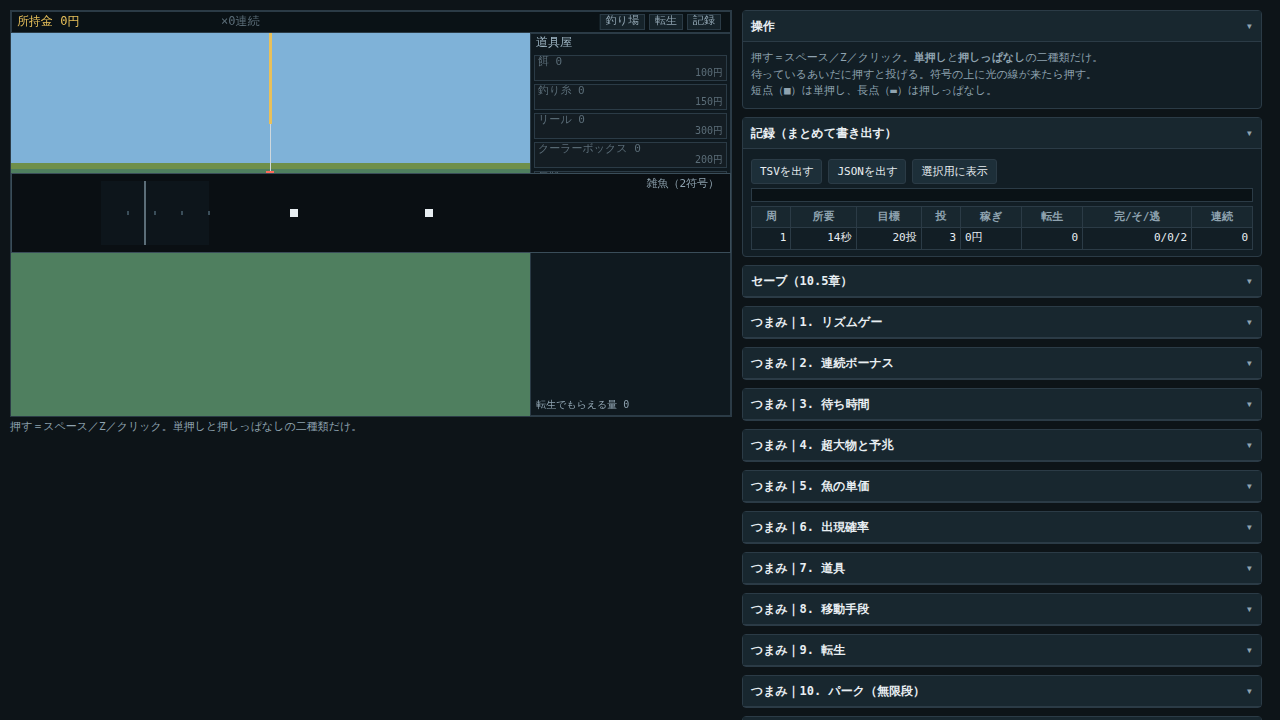
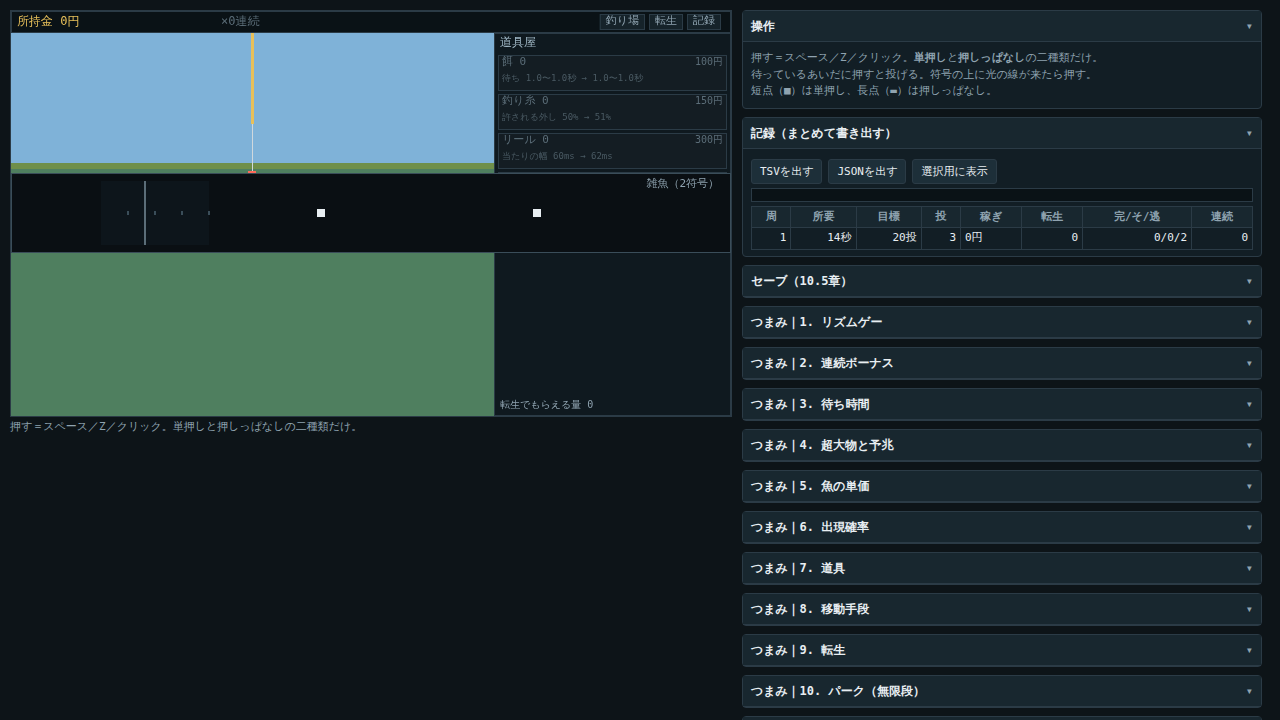
spec 第28版＋実装：道具屋にも効果と稼ぎの倍率。入れ食いになるを実装
- 9章 画面A：道具の一行に「いま → 買った後」を出す（決）。稼ぎが動くものには倍率。
  腕は勘定に入れない（人によって違うので、入れると道具どうしを比べられなくなる）。
  リールと釣り糸に倍率が付かないことが、そのまま「そういう道具だ」を伝える
- 10章10：開く型を11に。「入れ食いになる」4000〔仮〕を復活させ、
  終盤にだけ効く理由（床に当たるまで変わらない）を実測つきで但し書きにした
- 実装：rateEst()／rateIfBuy()／toolEff()、開く型11（opn11c／opn11v）
- friction-check.mjs に三件追加（道具の全行／倍率の付き方／入れ食いが効き始める段数）。
  19件すべて○

Claude-Session: https://claude.ai/code/session_01FWfDWPPf3eFfUKrHUiB2gN

Changed region(s): [[0.375, 0.0306, 0.5625, 0.2444], [0.375, 0.3361, 0.5, 0.5806], [0.1875, 0.0611, 0.2188, 0.1833]]

diff --git a/spec.md b/spec.md
@@ -1,6 +1,6 @@
 # 釣りインクリメンタル（仮題）仕様書
 
-版：第27版
+版：第28版
 日付：2026-08-20
 状態：第三段（数値合わせ）に渡せる。値の逆算が残っている（12章）
 
@@ -1279,6 +1279,14 @@ C 釣り場選び ⇄ A 釣りの画面 → B 転生 → C
   竿はパーク「自動の竿が解放される」を取ってから加わる
 - **自動購入の入切は、道具屋の見出しに置く（決）。**取っていないあいだは出さない。
   **切ったら手で買う場所がそこなので、同じ場所に置く**（10章10「入切できる」）
+- **道具の一行にも「買うと何がどれだけ変わるか」を出す（決）。**
+  「待ち 1.9〜7.5秒 → 1.8〜7.3秒」「売値 ×1.10 → ×1.16」の形。
+  **秒あたりの稼ぎが動くものには「稼ぎ ×1.05」を添える。**
+  移動手段は「○○ が開く」<br>
+  **稼ぎの目安に腕は入れない（決）。**人によって違うので、入れると道具どうしを比べられなくなる。
+  格の出現率で単価をならし、一投の秒数で割り、自動の竿はそこそこ止まりで足す<br>
+  **リールと釣り糸には倍率が付かない。**この二つは腕の許容を広げるもので、
+  **秒あたりの期待収入そのものは動かさない。**付けないことがそのまま「そういう道具だ」と伝える
 - **中央から下**──水面と浮き。**ここを押すと投げる**（3章）
 - **掛かったら中央に帯がポップ**する
 
@@ -1996,7 +2004,7 @@ C 釣り場選び ⇄ A 釣りの画面 → B 転生 → C
 | 釣り糸 | **もう逃さない** | 120 | 逃す割合が10割になる |
 | 釣り糸 | **自動の竿も逃さなくなる** | 300 | 上の効果が自動の竿にも及ぶ |
 
-#### 開く型（10）
+#### 開く型（11）
 
 **全部「一回きり」。効果ではなく値段で調整する。**
 
@@ -2016,9 +2024,15 @@ C 釣り場選び ⇄ A 釣りの画面 → B 転生 → C
 | 8 | 図鑑の埋まり具合で売値が上がる | **422** | **1種につき +0.5%** |
 | 9 | まだ釣っていない魚が掛かりやすくなる | **422** | **格のなかの2種の配分が 1:1 → 2:1**（未発見のほうへ寄せる）。<br>格ごとの確率（40/30/20/10）は動かさない |
 | 10 | 主が出やすくなる | **3041** | 予兆の確率 0.5%/秒 → 1.0%/秒 |
+| 11 | **入れ食いになる** | **4000**〔仮〕 | **待ち時間の下限 1.0秒 → 0.3秒。終盤にだけ効く**（下記） |
 
-> **「入れ食いになる」（待ち時間の下限 1.0秒 → 0.3秒）は実装に無い。**
-> 第25版まで仕様書だけに在った。**入れるか落とすかは決めていない。**
+> **「入れ食いになる」は終盤にだけ効く（決）。**
+> 待ち時間は `餌の効き^段数` で縮むので、**床に当たるまでは何も変わらない。**
+> 実測：餌0段・10段・20段では素も入れ食いも同じ値、**餌30段で初めて 1.00秒 → 0.80秒**に割れる。
+> 「取ったのに何も起きない」と見えるので、**取れる周を終盤に置くこと。**
+>
+> **値段の4000はこちらが置いた仮。**開く型10（主が出やすくなる）の3041の次に置いただけで、
+> 10章11の周の割り当てから逆算していない。**逆算のときに直す。**
 
 #### 図鑑のボーナス
 

diff --git a/decisions.md b/decisions.md
@@ -812,3 +812,17 @@
   **プレイヤーが知りたいのは「次に早く押すか遅く押すか」だけ**で、そこは決まる
 - 変更：安い。渡す値を一つ変えただけ
 
+### 道具の一行にも「いま → 買った後」を出す。稼ぎの倍率も添える
+- 画面：道具屋の各行に「**待ち 1.9〜7.5秒 → 1.8〜7.3秒　稼ぎ ×1.01**」のように出る。
+  **リールと釣り糸には倍率が付かない**
+- 理由：（2 上位の決定から導ける）パークに出したのと同じ相場が、
+  **買い物である以上ここにも効く。**「どれだけ効率よくなるのかもわからない」への答え。
+  **腕は勘定に入れない**（人によって違うので、入れると道具どうしを比べられなくなる）
+- 変更：安い。ただし**道具を足すたびに一行ずつ書き足す**
+
+### 入れ食いになる（開く型11）を実装する
+- 画面：待ち時間の下限が 1.0秒 → 0.3秒。**餌30段あたりまで、取っても何も変わらない**
+- 理由：（1 調べれば決まる）第25版まで仕様書だけに在って実装に無かった。
+  待ち時間は `餌の効き^段数` で縮むので、**床に当たるまで効かない**のは仕様どおり。
+  実測：餌0・10・20段では素と同じ、**餌30段で初めて 1.00秒 → 0.80秒**
+- 変更：安い。ただし**値段の4000はこちらが置いた仮。**10章11から逆算していない

diff --git a/CLAUDE.md b/CLAUDE.md
@@ -5,7 +5,7 @@
 
 ## このゲームの正本
 
-- `spec.md` が正本である。いまは第27版
+- `spec.md` が正本である。いまは第28版
 - 面白さの核と仮説は 0章・1章に入っている
 - 画面A・B・C・図鑑の設計は9章、つまみの初期値は10章、絵と音の方針は11章に入っている
 
